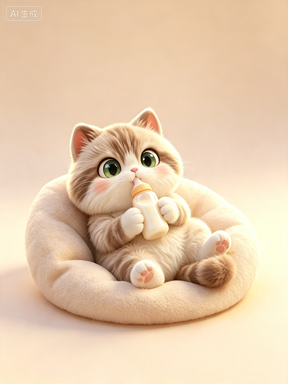
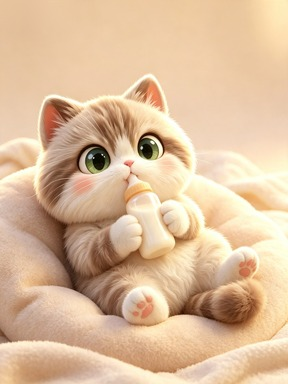
fix(宠物): 更新咪咪成长之路 LV1/LV2 图并去除水印
- 咪咪成长之路 LV1 替换为趴垫猫图（image#1），LV2 替换为奶瓶猫图（image#2）
- 使用 OpenCV inpaint 自动去除两张图左上角的"AI生成"文字水印
- 同步调整 CAT_GROWTH 中 LV1/LV2 的名称与台词，保持图文一致
  - LV1：趴垫咪咪 + 趴在软垫上等你的台词
  - LV2：奶瓶咪咪 + 喝奶奶的台词
- 验证：npm run lint / npm test 全绿

diff --git a/v8.html b/v8.html
@@ -2211,8 +2211,8 @@
     {lv:6,name:'毕业小蛇',img:'pets/snake-l6-grad.png',say:'我毕业啦🎓 谢谢你陪我一路长大！'}
   ];
   const CAT_GROWTH=[
-    {lv:1,name:'奶瓶咪咪',img:'pets/cat-l1.jpg',say:'我还在喝奶奶呢，陪我一起打卡长大吧～🍼'},
-    {lv:2,name:'趴垫咪咪',img:'pets/cat-l2.jpg',say:'趴在软垫上等你，今天任务完成了吗？'},
+    {lv:1,name:'趴垫咪咪',img:'pets/cat-l1.jpg',say:'趴在软垫上等你，今天任务完成了吗？'},
+    {lv:2,name:'奶瓶咪咪',img:'pets/cat-l2.jpg',say:'我还在喝奶奶呢，陪我一起打卡长大吧～🍼'},
     {lv:3,name:'毛线咪咪',img:'pets/cat-l3.jpg',say:'我会追毛线球啦！学习也要像追球一样专注～'},
     {lv:4,name:'扑球咪咪',img:'pets/cat-l4.jpg',say:'扑住小皮球！每完成一项任务就离我毕业更近一步～'},
     {lv:5,name:'玩鱼咪咪',img:'pets/cat-l5.jpg',say:'小鱼玩具真好玩，但你认真打卡的样子更酷！'},
